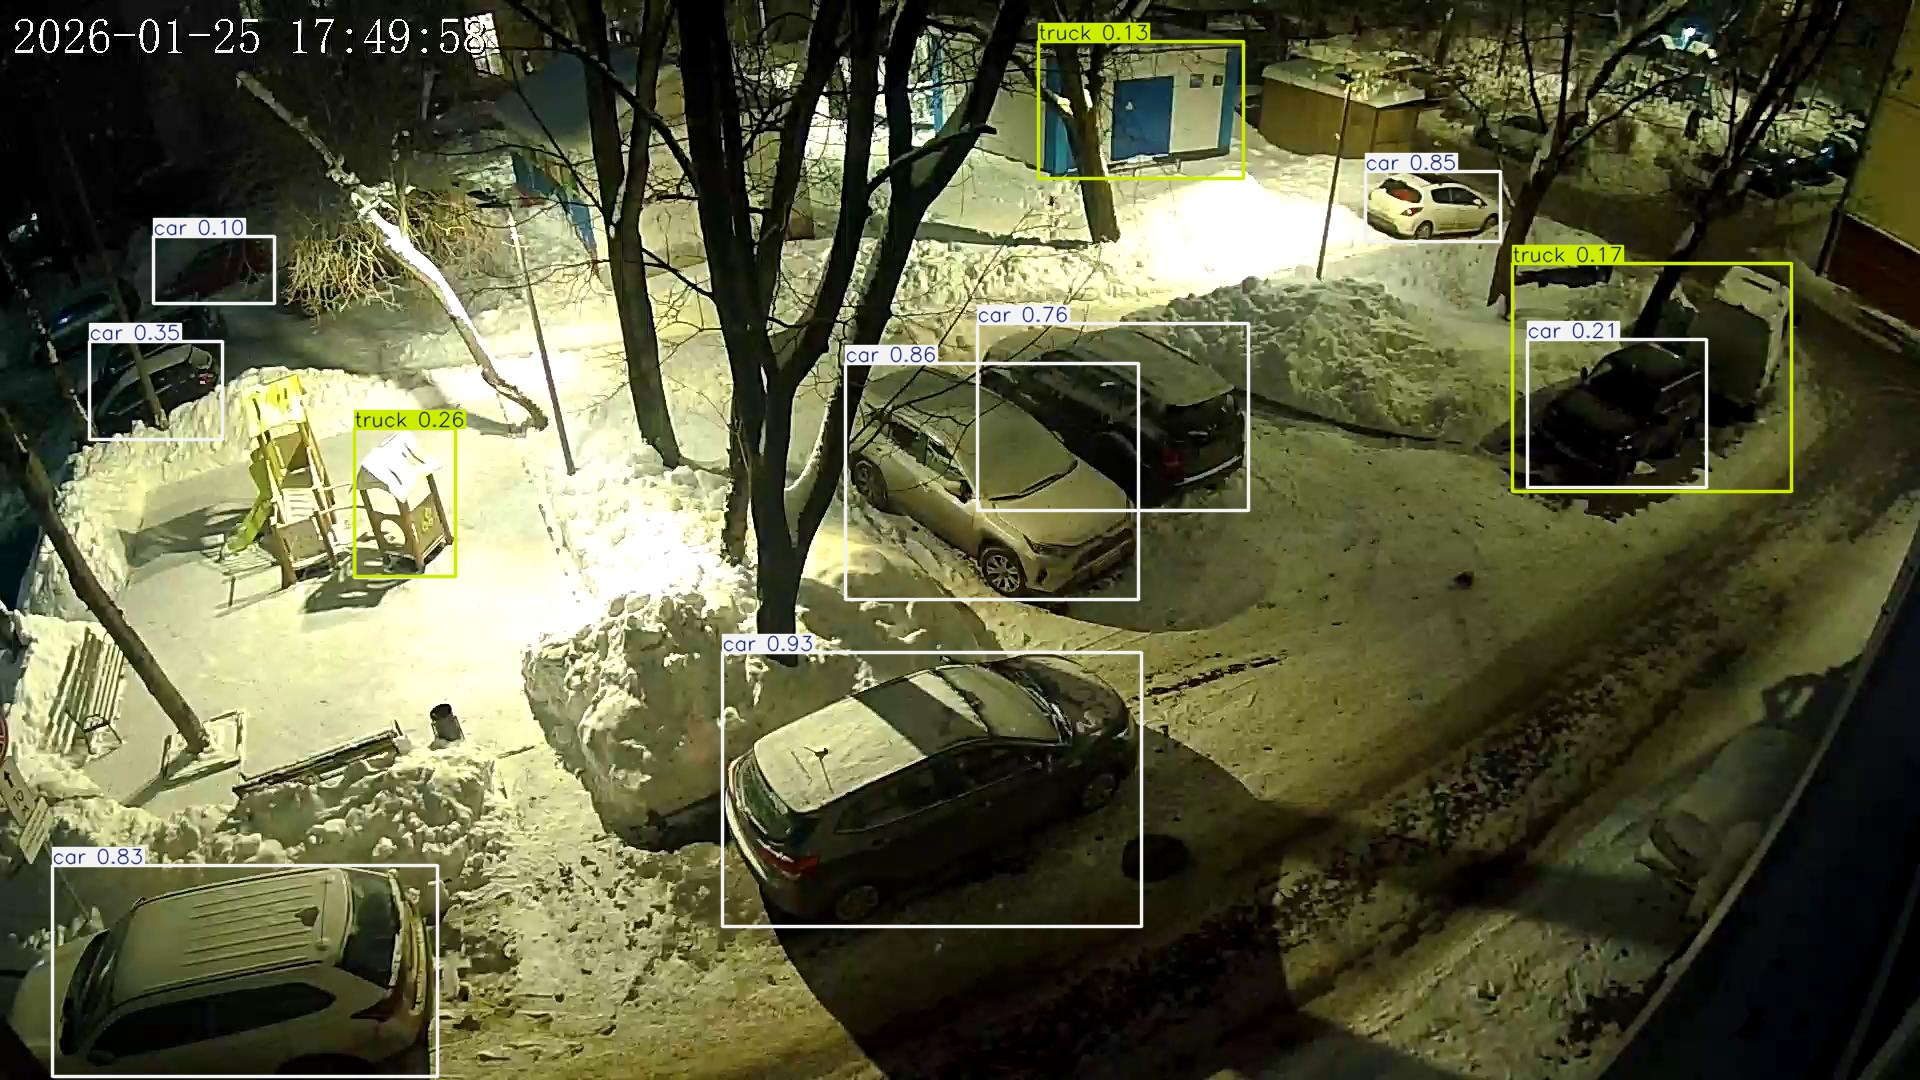
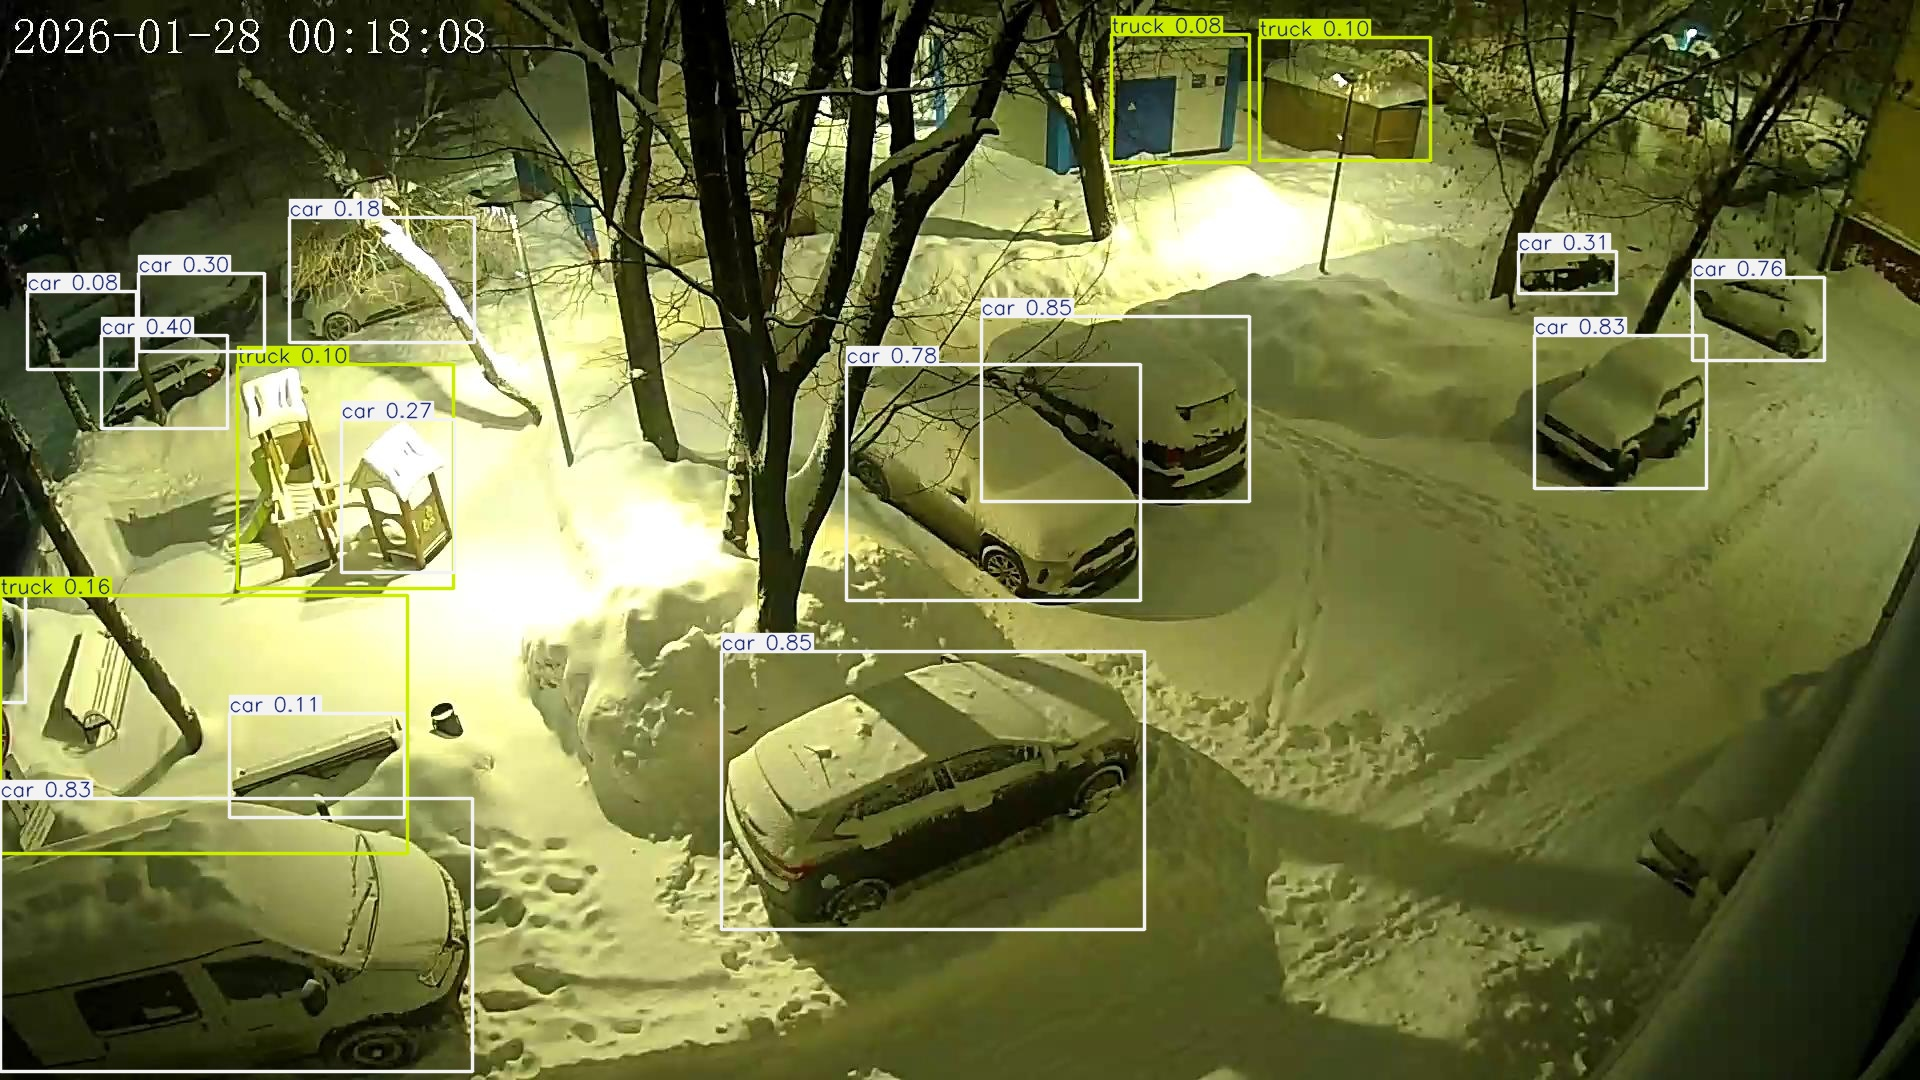
refactoring of editor (start)

diff --git a/Editor/core/main.py b/Editor/core/main.py
@@ -7,30 +7,10 @@ import logic.camera_control as camera
 import logic.visualizer as visualizer
 import logic.detector as detector
 import asyncio
+import modules.constants as const
 from datetime import date
+import modules.start_window as start_window
 
-menu_height = 24
-ASPECT_RATIO = 16 / 9
-window_full = [1800, 900]
-window_height = window_full[1]
-tools_pos_x = 0
-tools_pos_y = menu_height
-tools_width = int(window_full[0] / 100 * 21)
-tools_height = window_height
-
-main_pos_x = tools_width
-main_pos_y = menu_height
-main_width = int(window_full[0] - tools_width)
-main_height = window_height
-window_width = tools_width + main_width
-
-settings_width = 1000
-settings_height = 600
-font_size = 18
-
-colors = [(255, 0, 0, 100), (255, 140, 0, 100), (255, 255, 0, 100), (0, 255, 0, 100), (0, 255, 255, 100),
-          (0, 0, 255, 100), (255, 0, 255, 100)]
-colors_detect = [(255, 0, 0, 100), (0, 255, 0, 100)]
 
 
 class window():
@@ -41,7 +21,7 @@ class window():
         self.image_data = None
         self.texture_id = None
         self.selected_image = None
-        self.image_path = "dev/nullimage.jpg"
+        self.image_path = "../dev/nullimage.jpg"
         self.current_polygon = []
         self.polygons = []
         self.mask = None
@@ -55,15 +35,16 @@ class window():
         self.relative_path = None
         self.display_w = 100
         self.display_h = 100
+        self.active_menu = None
         dpg.create_context()
         dpg.create_viewport(
             title='CamParking',
-            width=window_width,
-            height=window_height,
-            min_width=window_width,
-            min_height=window_height,
-            max_width=window_width,
-            max_height=window_height
+            width=const.WINDOW_WIDTH,
+            height=const.WINDOW_HEIGHT,
+            min_width=const.WINDOW_WIDTH,
+            min_height=const.WINDOW_HEIGHT,
+            max_width=const.WINDOW_WIDTH,
+            max_height=const.WINDOW_HEIGHT
         )
         self.setup_input_handlers()
         self.program_presets()
@@ -86,8 +67,8 @@ class window():
         if not self.editor_online:
             return
 
-        draw_x = x - 8 - tools_width
-        draw_y = y - menu_height - 5
+        draw_x = x - 8 - const.TOOLS_WIDTH
+        draw_y = y - const.MENU_BAR_HEIGHT - 5
 
         if draw_x > 0 and draw_y > 0:
             if draw_x < self.display_w and draw_y < self.display_h:
@@ -144,10 +125,10 @@ class window():
 
             for i in range(len(self.polygons)):
                 tag = "polypoint" + str(i)
-                j = i % len(colors)
+                j = i % len(const.POLYGONS_COLORS)
 
                 scaled_fill_points = self.scale_points_for_display(self.polygons[i]['points'])
-                dpg.draw_polygon(scaled_fill_points, color=(255, 0, 0, 100), fill=colors[j],
+                dpg.draw_polygon(scaled_fill_points, color=(255, 0, 0, 100), fill=const.POLYGONS_COLORS[j],
                                  tag=tag, parent="image_display")
 
                 points = self.polygons[i]['points']
@@ -183,9 +164,8 @@ class window():
 
     async def interface(self):
         with dpg.font_registry():
-            font_path = "fonts/defaultfont.ttf"
-            if os.path.exists(font_path):
-                default_font = dpg.add_font(font_path, font_size)
+            if os.path.exists(const.FONT_PATH):
+                default_font = dpg.add_font(const.FONT_PATH, const.FONT_SIZE)
                 dpg.add_font_range_hint(dpg.mvFontRangeHint_Cyrillic, parent=default_font)
                 dpg.bind_font(default_font)
                 print("Шрифт с поддержкой кириллицы установлен")
@@ -193,6 +173,9 @@ class window():
                 print("Шрифт не найден")
 
         with dpg.viewport_menu_bar():
+            with dpg.menu(label="Меню"):
+                dpg.add_menu_item(label=f"Открыть редактор", callback=lambda: [self.interface_main_window(), self.interface_tool_window()])
+                dpg.add_menu_item(label="бяк", callback=lambda: print("бяк"))
             with dpg.menu(label="Файл"):
                 dpg.add_menu_item(label="Открыть изображение", callback=lambda: dpg.show_item("file_dialog"))
                 dpg.add_menu_item(label="Открыть", callback=lambda: (dpg.show_item("mask_dialog"),
@@ -205,24 +188,28 @@ class window():
                 dpg.add_menu_item(label="Выйти")
             with dpg.menu(label="Подключение"):
                 dpg.add_menu_item(label="Сделать фото", callback=lambda: self.get_screenshot_from_camera())
-                dpg.add_menu_item(label="Подключение")
-                dpg.add_menu_item(label="Открыть результаты")
+                dpg.add_menu_item(label="Подключение", callback=lambda: self.interface_main_window())
+                dpg.add_menu_item(label="Открыть результаты", callback=lambda: self.interface_tool_window())
                 dpg.add_menu_item(label="Настройки соединения")
             with dpg.menu(label="ИИ"):
                 dpg.add_menu_item(label=f"Найти занятые места на фото\nВыбранная маска: {None}", callback=lambda: self.make_detection())
             with dpg.menu(label="О программе"):
                 dpg.add_menu_item(label="Информация")
-            dpg.add_spacer(width = int(main_width / 2))
+            dpg.add_spacer(width = 15)
+            dpg.add_text(label=self.active_menu)
+            dpg.add_spacer(width = int(const.MAIN_WIDTH / 2))
             dpg.add_text("", tag="current_file")
 
-        self.interface_main_window()
-        self.interface_tool_window()
+
+
+        self.active_menu = start_window.run()
+
 
     def interface_main_window(self):
         with dpg.window(label="Main Window", tag="main_window",
                         no_title_bar=True, no_move=True, no_resize=True, no_collapse=True, no_close=True,
-                        width=main_width, height=main_height,
-                        pos=(main_pos_x, main_pos_y)):
+                        width=const.MAIN_WIDTH, height=const.MAIN_HEIGHT,
+                        pos=(const.MAIN_POS_X, const.MAIN_POS_Y)):
 
             self.dir, self.i, self.w, self.h = self.prepare_image()
 
@@ -249,16 +236,16 @@ class window():
     def interface_tool_window(self):
         with dpg.window(label="Tools", tag="tools_area",
                         no_title_bar=True, no_move=True, no_resize=True, no_collapse=True, no_close=True,
-                        width=tools_width, height=tools_height,
-                        pos=(tools_pos_x, tools_pos_y), no_scrollbar=True):
+                        width=const.TOOLS_WIDTH, height=const.TOOLS_HEIGHT,
+                        pos=(const.TOOLS_POS_X, const.TOOLS_POS_Y), no_scrollbar=True):
             with dpg.group(horizontal=True):
-                dpg.add_spacer(width=int(tools_width / 2 - 50))
+                dpg.add_spacer(width=int(const.TOOLS_WIDTH / 2 - 50))
                 dpg.add_text("Полигоны")
 
             with dpg.child_window(
                     tag="polygons_list",
                     height=400,
-                    width=tools_width - 15,
+                    width=const.WINDOW_WIDTH - 15,
                     horizontal_scrollbar=False,
                     autosize_y=False
             ):
@@ -271,8 +258,8 @@ class window():
     def settings(self):
         if dpg.does_item_exist("modal_window"):
             dpg.delete_item("modal_window")
-        x = tools_pos_x + (window_width - settings_width) // 2
-        y = tools_pos_y + (window_height - settings_height) // 2
+        x = const.TOOLS_POS_X + (const.WINDOW_WIDTH - const.SETTINGS_WIDTH) // 2
+        y = const.TOOLS_POS_Y + (const.WINDOW_HEIGHT - const.SETTINGS_HEIGHT) // 2
 
         with dpg.window(
                 label="Настройки",
@@ -281,15 +268,15 @@ class window():
                 id="modal_window",
                 no_title_bar=False,
                 no_move=True,
-                width=settings_width,
-                height=settings_height,
+                width=const.SETTINGS_WIDTH,
+                height=const.SETTINGS_HEIGHT,
                 pos=(x, y - 20),
         ):
             with dpg.group(horizontal=True):
                 dpg.add_text("Размер шрифта:")
                 dpg.add_spacer(width=70)
                 dpg.add_button(label="+", callback=lambda: print("клик"), width=25, height=25)
-                dpg.add_text(str(font_size))
+                dpg.add_text(str(const.FONT_SIZE))
                 dpg.add_button(label="-", callback=lambda: print("клик"), width=25, height=25)
 
             dpg.add_separator()
@@ -318,7 +305,7 @@ class window():
         with dpg.file_dialog(
                 directory_selector=False,
                 default_filename="",
-                default_path="../save",
+                default_path="../../save",
                 show=False,
                 callback=self.load_mask,
                 id="mask_dialog",
@@ -336,7 +323,7 @@ class window():
         with dpg.file_dialog(
                 directory_selector=False,
                 default_filename="newmask.mask",
-                default_path="../save",
+                default_path="../../save",
                 show=False,
                 callback=self.save_button,
                 id="save_dialog",
@@ -351,10 +338,10 @@ class window():
         for i, poly in enumerate(self.polygons):
             with dpg.group(horizontal=True, parent="polygons_list"):
                 with dpg.group(horizontal=True, tag="const_visible" + str(i)):
-                    self.add_alfa_button("icons/visabilityon.png",
+                    self.add_alfa_button("../icons/visabilityon.png",
                                          (lambda fixed: lambda s, a: self.hide_polygon(fixed))(poly['points']),
                                          "hide_button" + str(i), True)
-                    self.add_alfa_button("icons/visabilityoff.png",
+                    self.add_alfa_button("../icons/visabilityoff.png",
                                          (lambda fixed: lambda s, a: self.show_polygon(fixed))(poly['points']),
                                          "show_button" + str(i), False)
 
@@ -368,13 +355,13 @@ class window():
                     dpg.bind_item_theme("poly_namespace_" + str(i), self.textbox_theme)
 
                 with dpg.group(horizontal=True, tag="non_const_visible" + str(i), show=True):
-                    self.add_alfa_button("icons/edit.png",
+                    self.add_alfa_button("../icons/edit.png",
                                          (lambda fixed: lambda s, a: self.rename_activate(fixed))(i),
                                          "edit_button_" + str(i), True)
-                    self.add_alfa_button("icons/editoff.png",
+                    self.add_alfa_button("../icons/editoff.png",
                                          (lambda fixed: lambda s, a: self.rename_polygon(fixed))(i),
                                          "edit_off_button" + str(i), False)
-                    self.add_alfa_button("icons/delete.png",
+                    self.add_alfa_button("../icons/delete.png",
                                          (lambda fixed: lambda s, a: self.delete_polygon(fixed))(poly['points']),
                                          "delete_button" + str(i), True)
 
@@ -510,13 +497,13 @@ class window():
                 dpg.delete_item("image_display")
 
             image_ratio = width / height
-            available_ratio = main_width / main_height
+            available_ratio = const.MAIN_WIDTH / const.MAIN_HEIGHT
 
             if image_ratio > available_ratio:
-                self.display_w = main_width - 50
+                self.display_w = const.MAIN_WIDTH - 50
                 self.display_h = int(self.display_w / image_ratio)
             else:
-                self.display_h = main_height - 20
+                self.display_h = const.WINDOW_HEIGHT - 20
                 self.display_w = int(self.display_h * image_ratio)
 
             with dpg.drawlist(width=self.display_w, height=self.display_h, tag="image_display", parent="main_window"):
@@ -617,7 +604,7 @@ class window():
 
     def get_screenshot_from_camera(self):
         try:
-            INPUT_DIR = "../img/results/"
+            INPUT_DIR = "../../img/results/"
             another_img = "output_open.jpg"
             mask = "../save/test4.mask"
             image = camera.get_img_sync()

diff --git a/Editor/core/modules/start_window.py b/Editor/core/modules/start_window.py
@@ -1,0 +1,28 @@
+import cv2
+import dearpygui.dearpygui as dpg
+import numpy as np
+import os
+import logic.file as file
+import logic.camera_control as camera
+import logic.visualizer as visualizer
+import logic.detector as detector
+import asyncio
+import Editor.core.modules.constants as const
+from datetime import date
+
+WINDOW_NAME = "Начало"
+
+def run():
+    with dpg.window(label="Start Window", tag="start_window",
+                    no_title_bar=True, no_move=True, no_resize=True, no_collapse=True, no_close=True,
+                    width=const.MAIN_WIDTH, height=const.MAIN_HEIGHT,
+                    pos=(const.MAIN_POS_X, const.MAIN_POS_Y)):
+            with dpg.group(horizontal=True):
+                dpg.add_spacer(width=int(const.TOOLS_WIDTH / 2 - 50))
+                dpg.add_text("Полигоныasdasdasda")
+
+            dpg.add_separator()
+
+            dpg.add_text("Управление")
+            dpg.add_text("", wrap=0)
+            return WINDOW_NAME

diff --git a/Editor/core/modules/constants.py b/Editor/core/modules/constants.py
@@ -1,0 +1,31 @@
+from pathlib import Path
+
+PROJECT_ROOT = Path(__file__).parent.parent.parent.parent
+
+MENU_BAR_HEIGHT = 24
+ASPECT_RATIO = 16 / 9
+WINDOW_FULL_SIZE = [1800, 900]
+WINDOW_HEIGHT = WINDOW_FULL_SIZE[1]
+TOOLS_POS_X = 0
+TOOLS_POS_Y = MENU_BAR_HEIGHT
+TOOLS_WIDTH = int(WINDOW_FULL_SIZE[0] / 100 * 21)
+TOOLS_HEIGHT = WINDOW_HEIGHT
+
+MAIN_POS_X = TOOLS_WIDTH
+MAIN_POS_Y = MENU_BAR_HEIGHT
+MAIN_WIDTH = int(WINDOW_FULL_SIZE[0] - TOOLS_WIDTH)
+MAIN_HEIGHT = WINDOW_HEIGHT
+WINDOW_WIDTH = TOOLS_WIDTH + MAIN_WIDTH
+
+SETTINGS_WIDTH = 1000
+SETTINGS_HEIGHT = 600
+FONT_SIZE = 18
+
+POLYGONS_COLORS = [(255, 0, 0, 100), (255, 140, 0, 100), (255, 255, 0, 100), (0, 255, 0, 100), (0, 255, 255, 100),
+                   (0, 0, 255, 100), (255, 0, 255, 100)]
+
+
+# ======================= Paths ==========================
+
+CURRENT_FONT = "default_font.ttf"
+FONT_PATH = f"{PROJECT_ROOT}/Editor/Fonts/{CURRENT_FONT}"

diff --git a/logic/logic.py b/logic/logic.py
@@ -49,7 +49,7 @@ def process_image(image= None,img=None,debug:bool = False,config_name:str = "con
             print(f"вехиклес1231231231231{vehicles}{cars_count}{detection_results}")
             annotated_frame = detection_results[0].plot(    # Отрисовка квадратов (результатов)
                 line_width=config["line_width"],  # Толщина рамки
-                font_size=config["font_size"],  # Размер текста
+                font_size=config["FONT_SIZE"],  # Размер текста
                 conf=config["show_conf"],  # Показывать уверенность
                 labels=config["labels"]  # Показывать названия классов
 

diff --git a/logic/visualizer.py b/logic/visualizer.py
@@ -5,7 +5,7 @@ import numpy as np
 from PIL import ImageFont, ImageDraw, Image
 import logic.file as file
 
-font_path = "../Editor/fonts/defaultfont.ttf"
+font_path = "../Editor/Fonts/default_font.ttf"
 font_size = 50  # Увеличьте размер шрифта (5 слишком маленький!)
 SAVES_PATH = "../save/"
 
